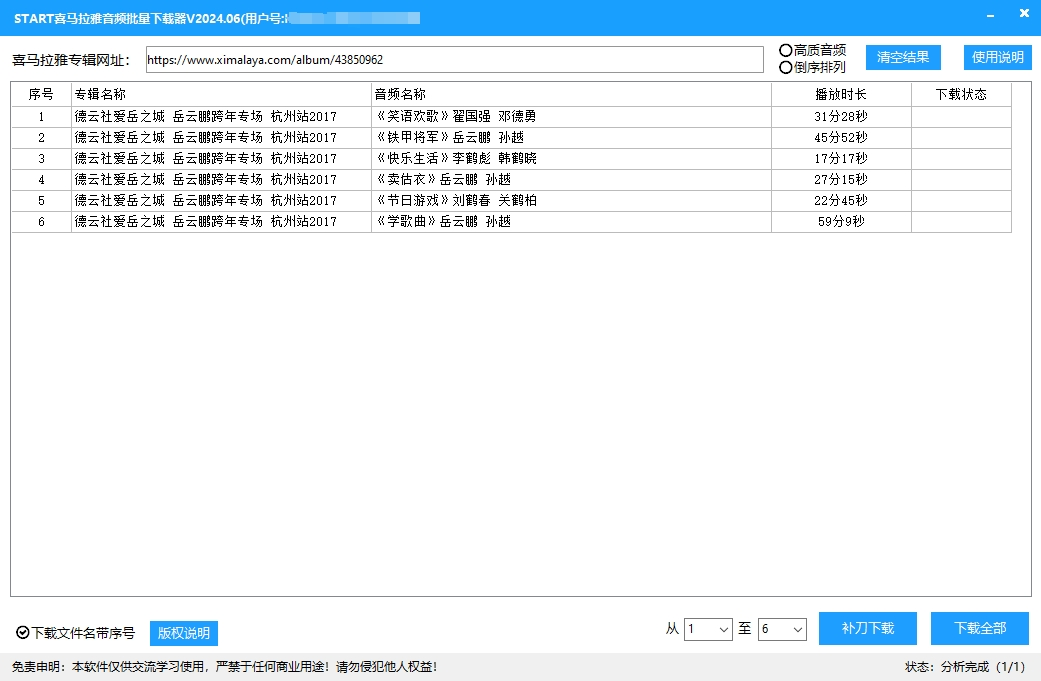
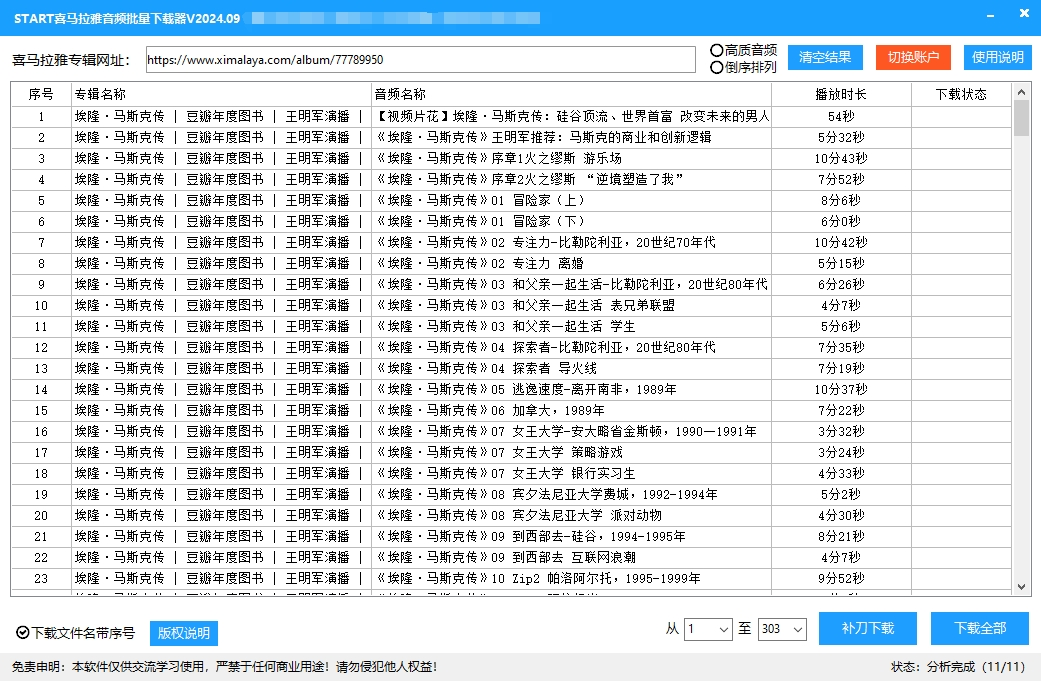
发布新版本支持VIP

diff --git a/README.md b/README.md
@@ -1,7 +1,7 @@
 # 喜马拉雅音频批量下载器（发行版）
 
 #### 介绍
-喜马拉雅音频批量下载器（发行版）支持免费音频批量下载，VIP音频自行解决。
+喜马拉雅音频批量下载器（发行版）支持免费音频批量下载，支持VIP音频下载，可通过淘宝购买7天临时会员。
 
 #### 软件架构
 本软件采用Aardio编写，语言比较小众，但编写打包很小。
@@ -12,7 +12,7 @@
 #### 安装教程
 
 1.  直接下载exe安装包即可直接使用；
-2.  下载地址：[V2024.06](https://gitee.com/start1221/himalaya-download-release/tree/master/release)
+2.  下载地址：[V2024.09](https://gitee.com/start1221/himalaya-download-release/tree/master/release)
 
 #### 使用说明
 
@@ -21,4 +21,23 @@
 3.  点击【下载全部】；
 4.  下载完成后自动打开下载文件夹。
 
-<img src="https://oscimg.oschina.net/oscnet/up-a84124d2f91fb2bd5727f8b463dea7813b7.jpg"/>
+
+
+<img src="https://oscimg.oschina.net/oscnet/up-815f6f42085487d90f9c9387944d8836e7e.jpg" width="400"/>
+
+**登录喜马拉雅会员账号可下载会员音频**
+
+<img src="https://oscimg.oschina.net/oscnet/up-9fcec2ebee15723dad37d5fa84a19beda0d.jpg"/>
+
+**通过手机APP扫描登录**
+
+<img src="https://oscimg.oschina.net/oscnet/up-2acf025f1232bec700e1cfa9aad61b4dcde.jpg"/>
+
+**例如这种会员免费听的音频都可以随便下载**
+
+<img src="https://oscimg.oschina.net/oscnet/up-d5fef3fd50542477b620b379a224c3c59f0.jpg"/>
+
+**下载后可看到音频的时长是完整的，如果不登录，只能下载到180秒或者90秒的长度**
+
+<img src="https://oscimg.oschina.net/oscnet/up-0d53647b5acbc1824c3a3325f9873a046c6.jpg"/>
+
